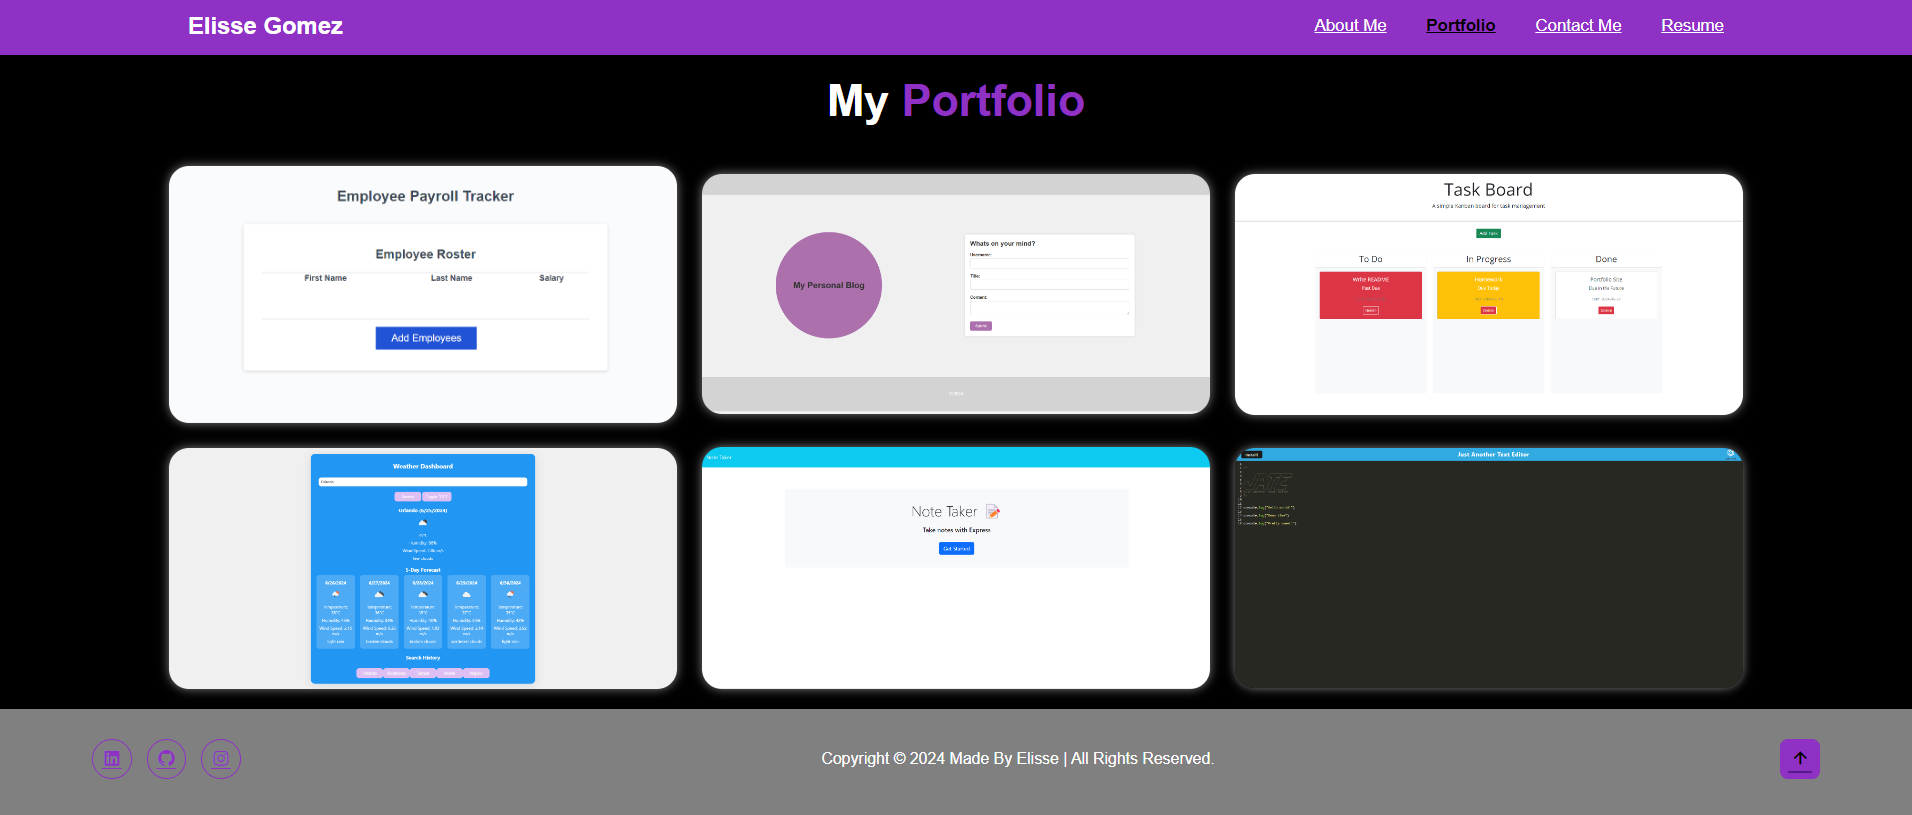
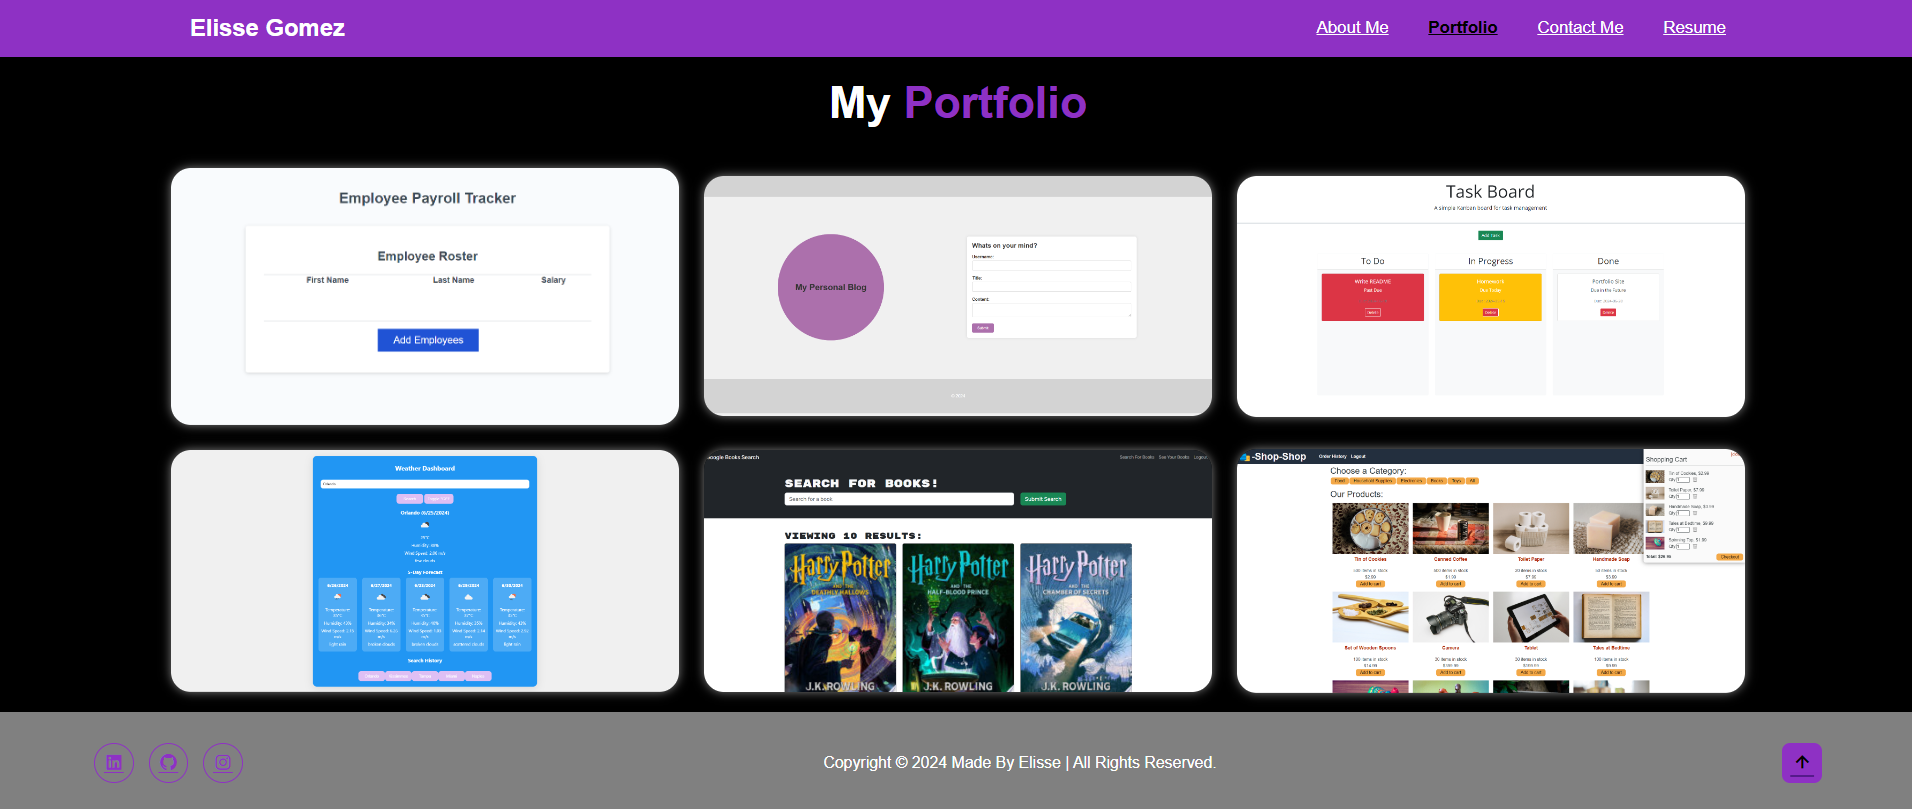
updated portfolio with new work

diff --git a/src/pages/Portfolio.jsx b/src/pages/Portfolio.jsx
@@ -79,15 +79,15 @@ export default function Portfolio() {
 
                 {/* <!-- Project 5 --> */}
                 <div className="portfolio-box">
-                    <img src="/Note Taker.png" alt="Note Taker" />
+                    <img src="/Book Search Engine.png" alt="Book Search Engine" />
                     <div className="portfolio-layer">
                         <div className="portfolio-title">
-                            <h4>Note Taker</h4>
+                            <h4>Book Search Engine</h4>
                             <div className="portfolio-links">
-                                <a href="https://note-taker-fvwk.onrender.com/" aria-label="View Note Taker live site">
+                                <a href="https://book-search-engine-3qy8.onrender.com/" aria-label="View Book Search Engine live site">
                                     <i className="bx bx-link-external"></i>
                                 </a>
-                                <a href="https://github.com/elissegomez24/Note-Taker" aria-label="View Note Taker GitHub repository">
+                                <a href="https://github.com/elissegomez24/Book-Search-Engine" aria-label="View Book Search Engine GitHub repository">
                                     <i className="bx bxl-github"></i>
                                 </a>
                             </div>
@@ -97,15 +97,15 @@ export default function Portfolio() {
 
                 {/* <!-- Project 6 --> */}
                 <div className="portfolio-box">
-                    <img src="/Text Editor.png" alt="Text Editor" />
+                    <img src="/Redux Store.png" alt="Redux Store" />
                     <div className="portfolio-layer">
                         <div className="portfolio-title">
-                            <h4>Text Editor</h4>
+                            <h4>Redux Store</h4>
                             <div className="portfolio-links">
-                                <a href="https://text-editor-jo56.onrender.com/" aria-label="View Text Editor live site">
+                                <a href="https://redux-store-g8ui.onrender.com/" aria-label="View Redux Store live site">
                                     <i className="bx bx-link-external"></i>
                                 </a>
-                                <a href="https://github.com/elissegomez24/Text-Editor" aria-label="View Text Editor GitHub repository">
+                                <a href="https://github.com/elissegomez24/Redux-Store" aria-label="View Redux Store GitHub repository">
                                     <i className="bx bxl-github"></i>
                                 </a>
                             </div>
